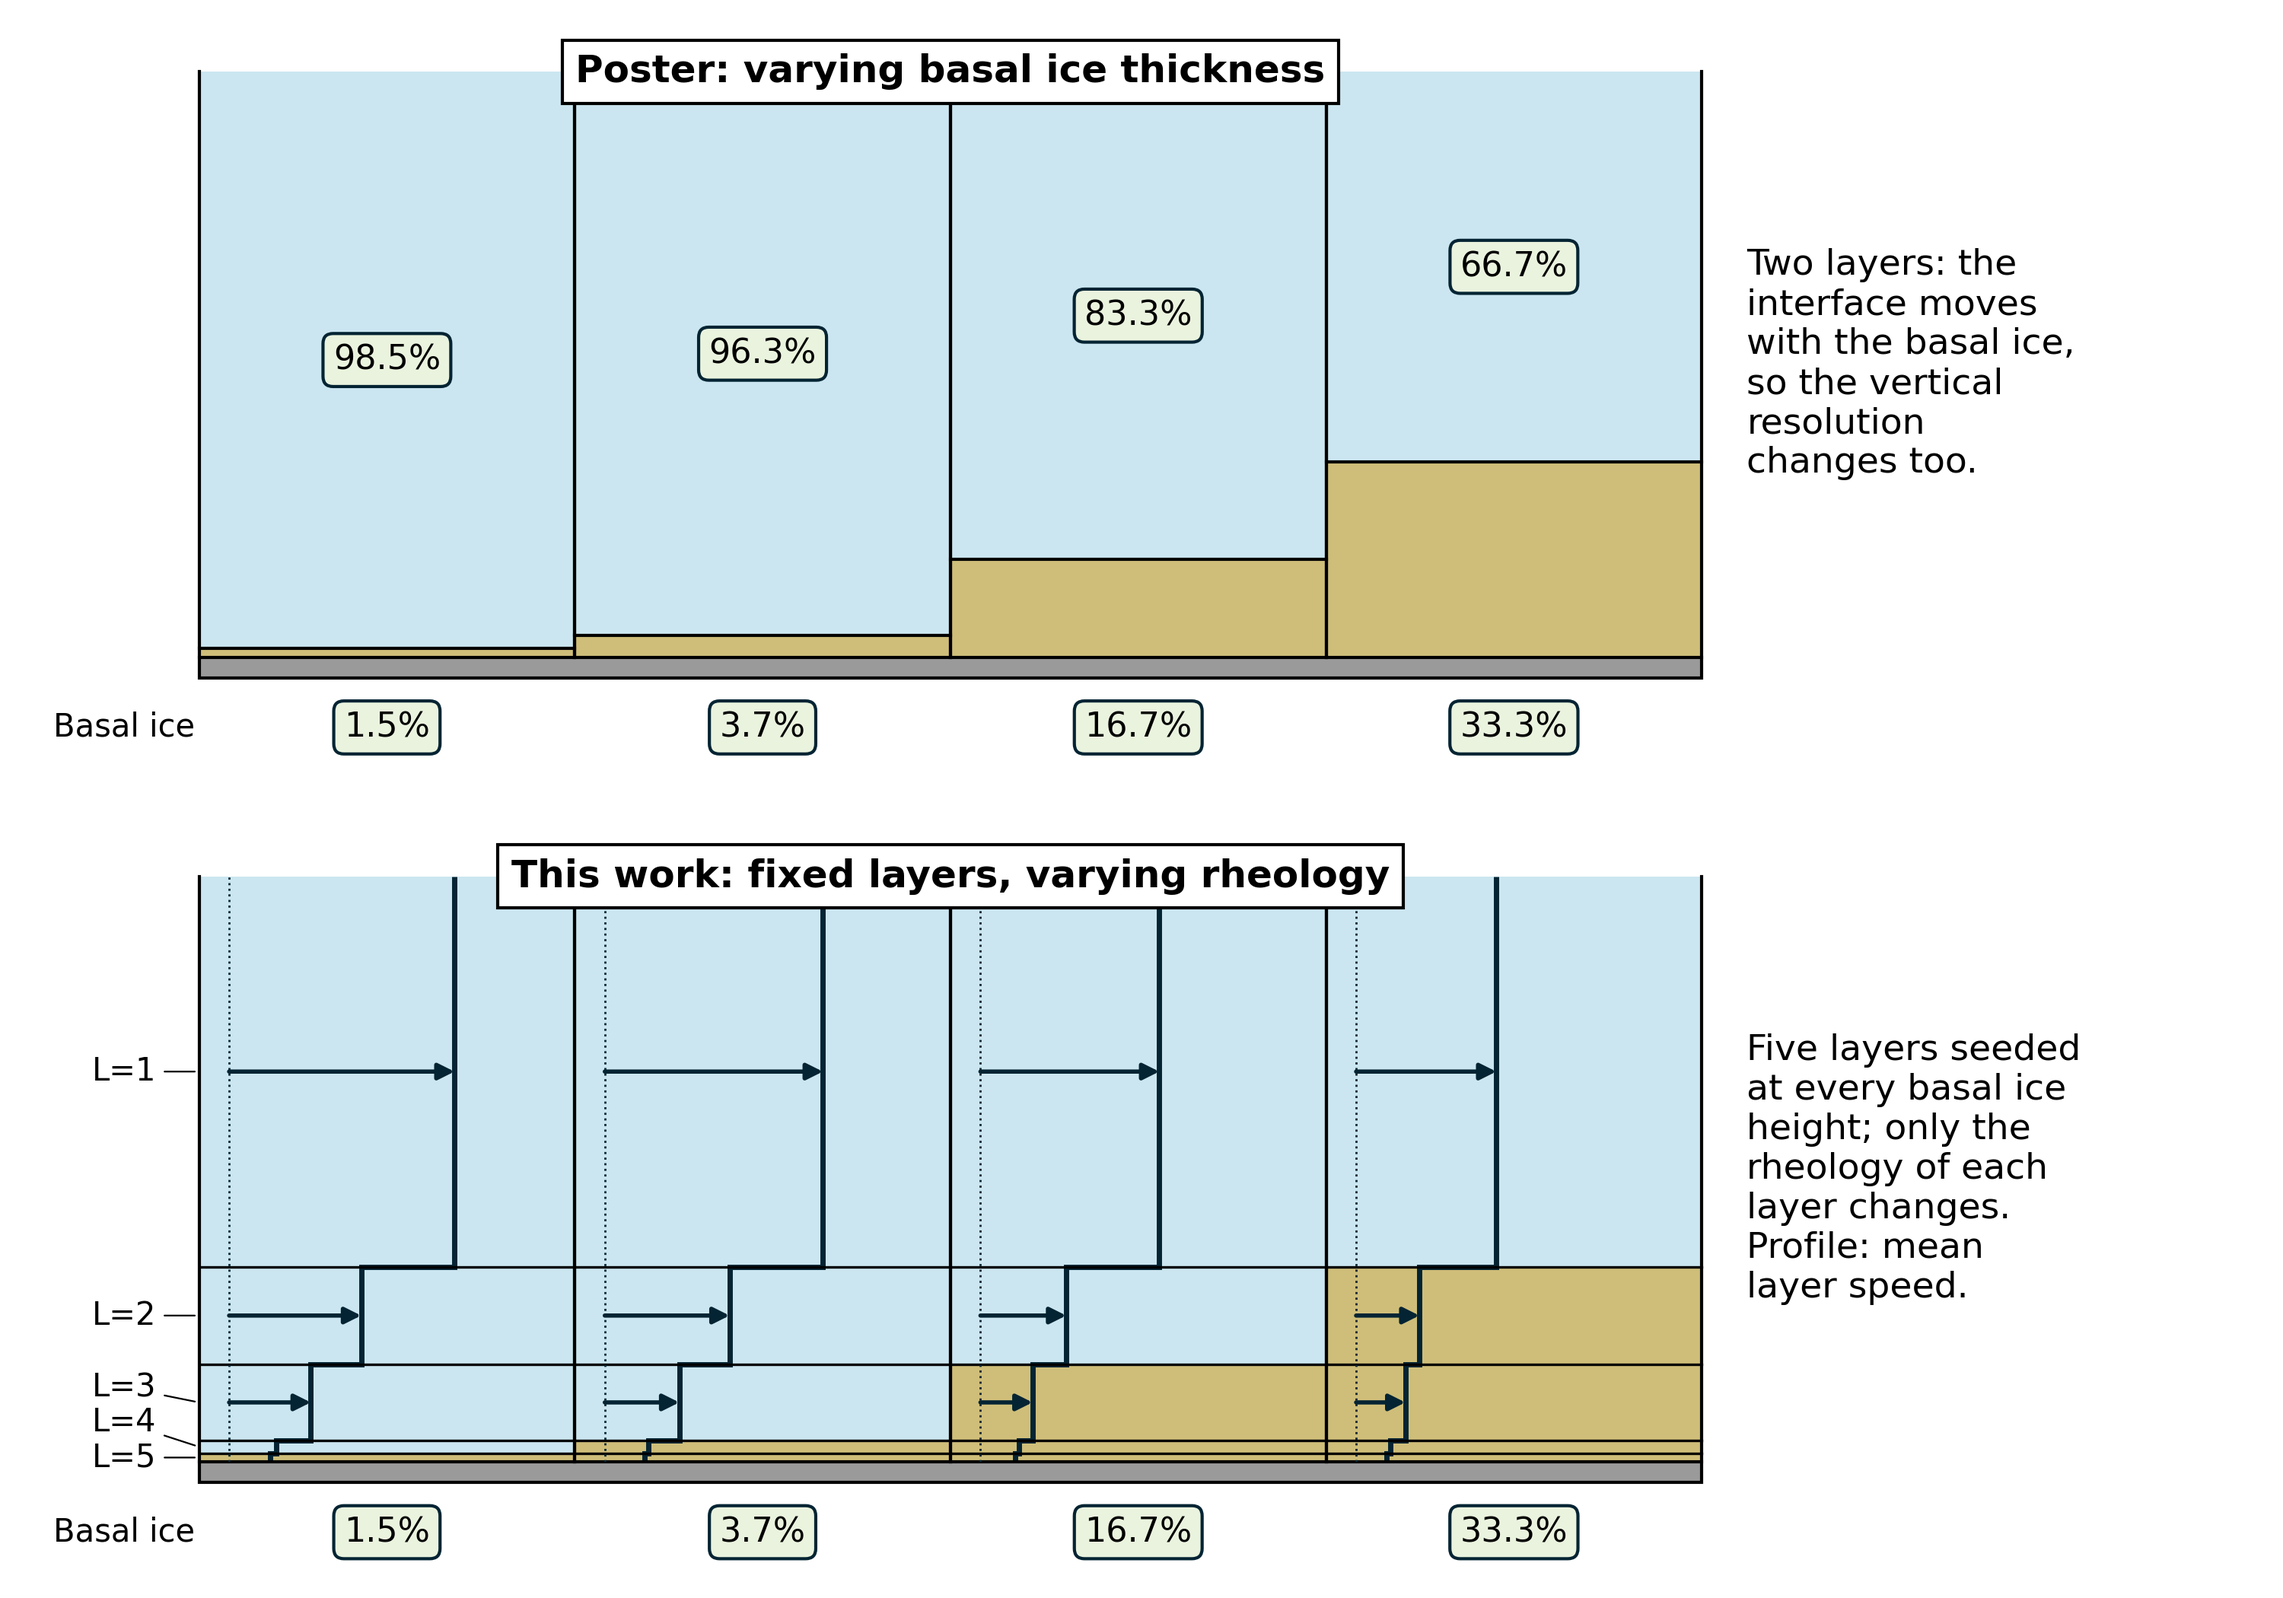
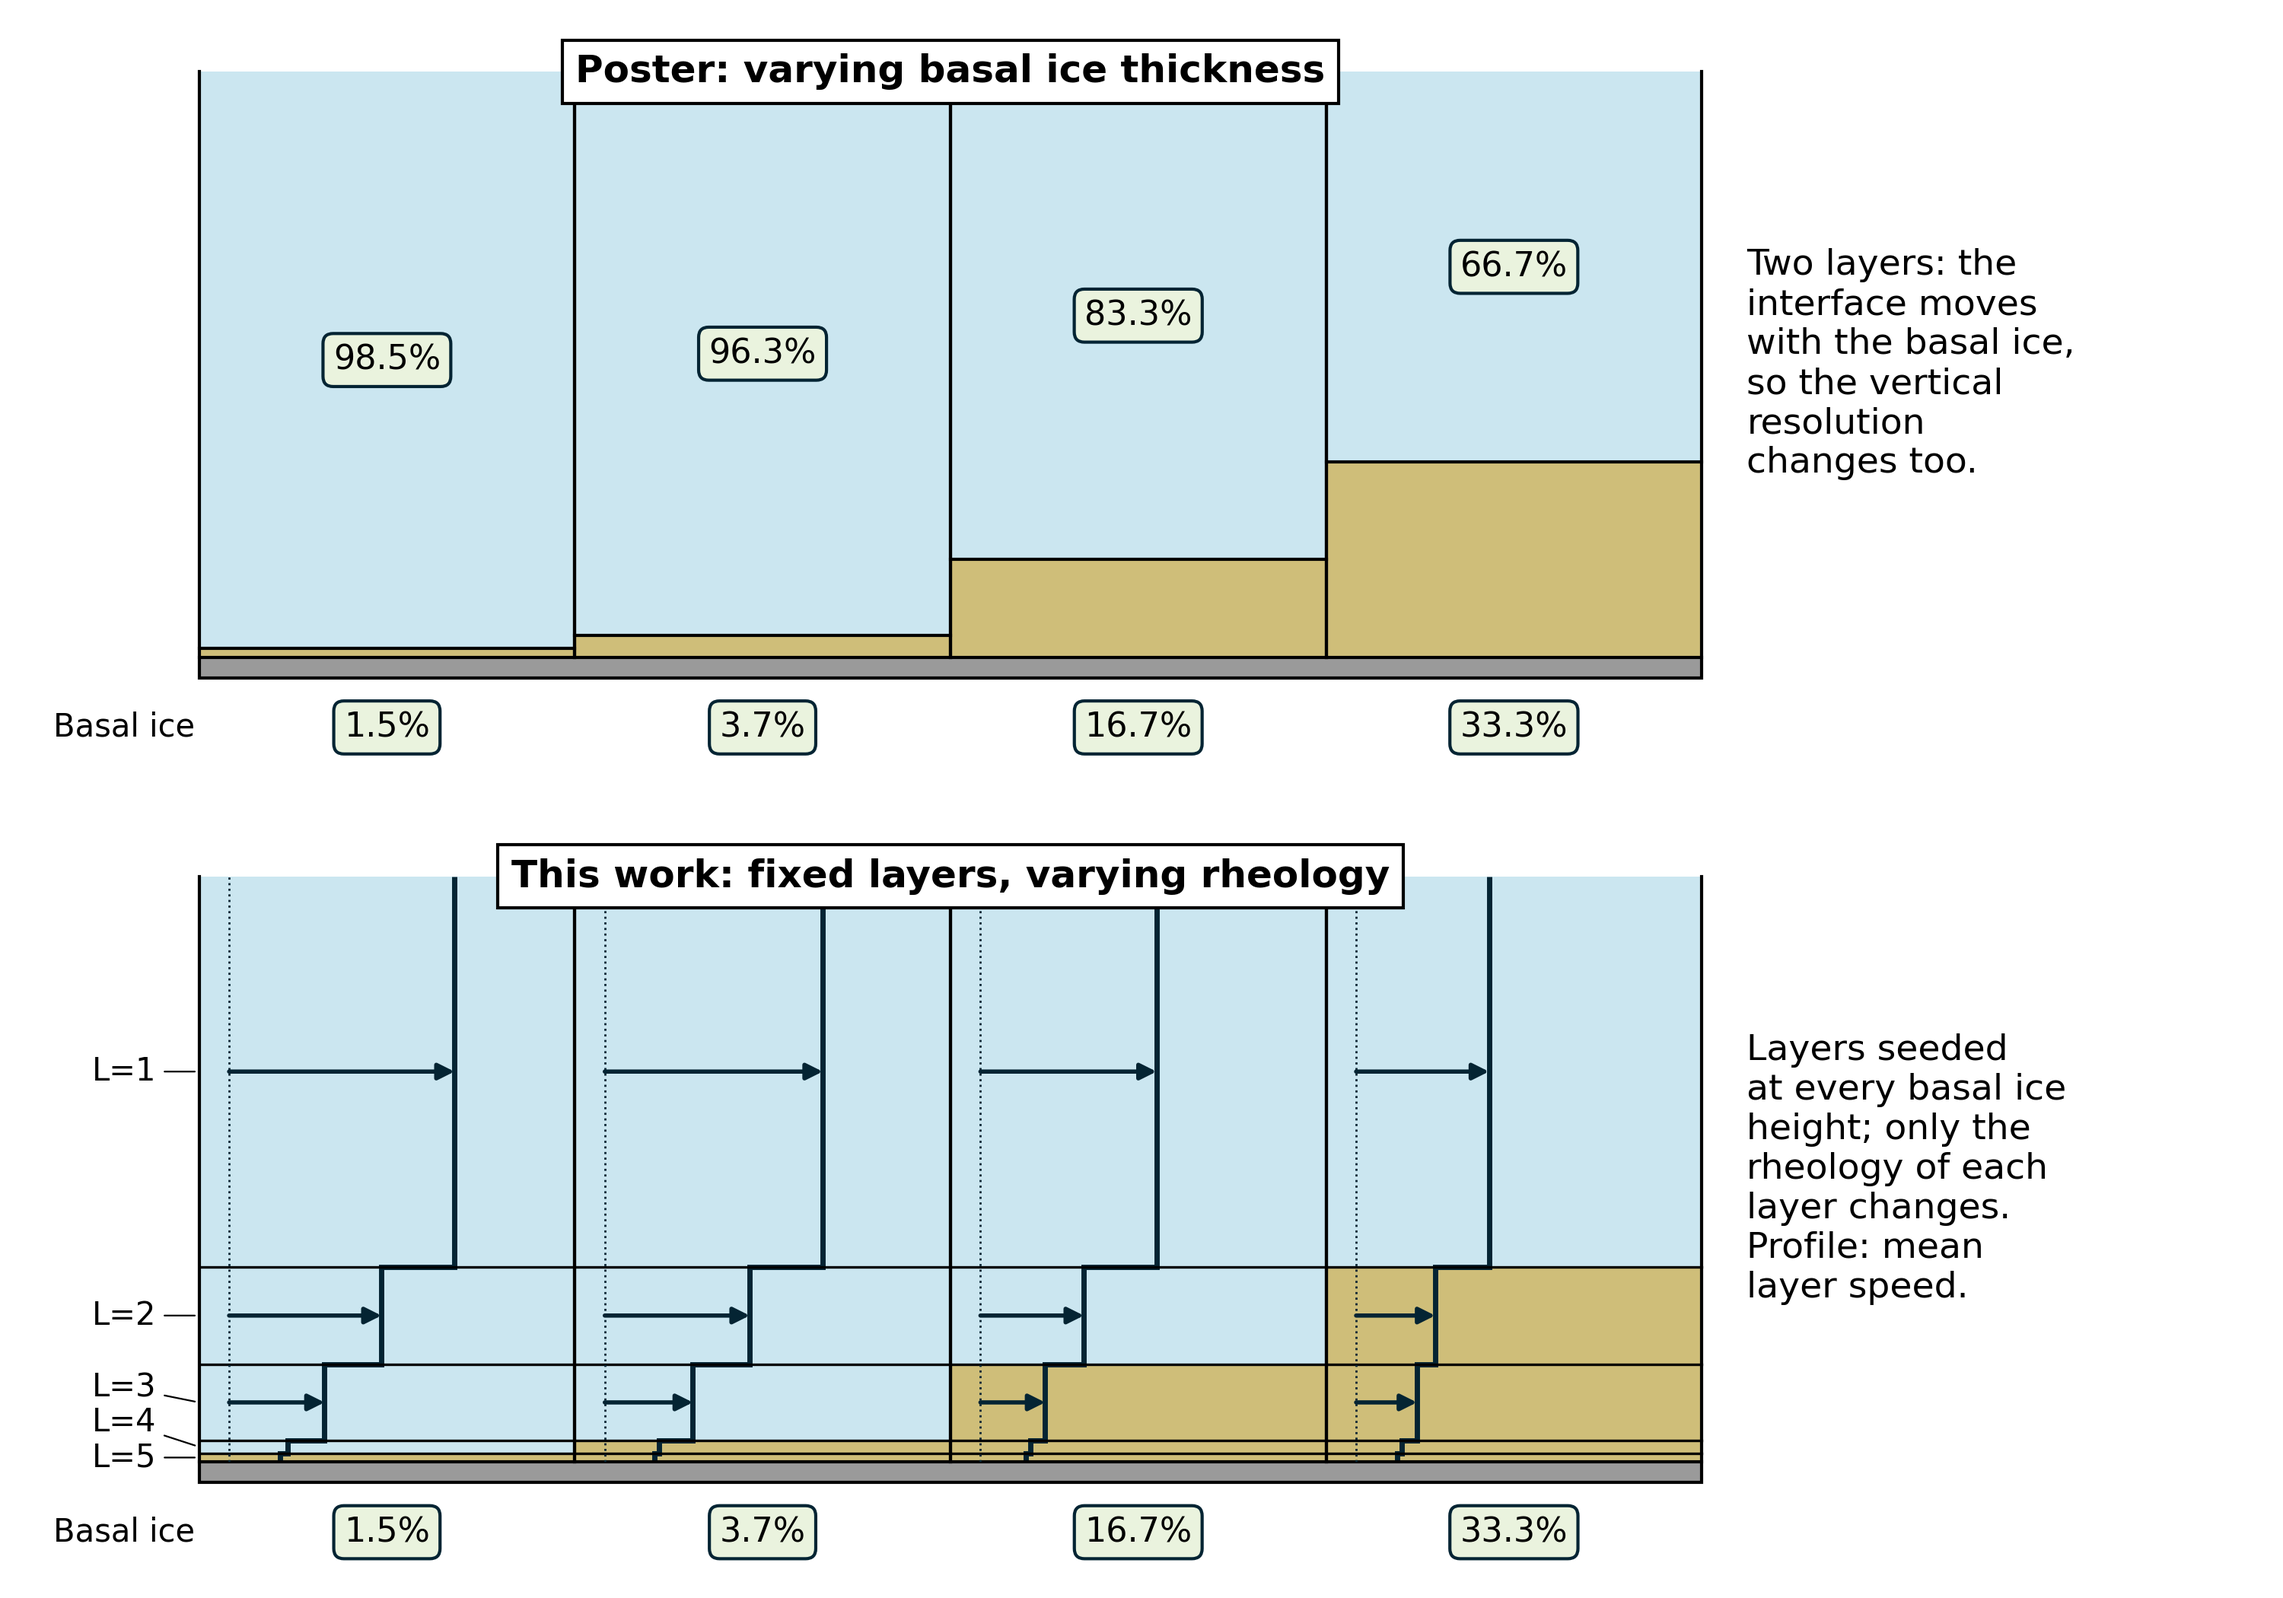
no-mistakes(review): Average sub-layer speeds per seeded layer, list reference runs

diff --git a/plot_schematic.py b/plot_schematic.py
@@ -2,10 +2,11 @@ r"""Schematic of the two experimental designs, in the poster's style.
 
 Top row: the poster's runs, a two-layer column whose one interface moves
 to make the basal ice thicker.  Bottom row: the interfaces seeded once at
-every one of those heights, five layers, with only the assignment of
-basal-ice rheology changing.  The arrows in each layer of the bottom row
-trace each layer's mean along-flow speed from ``experiments.py``: every
-layer moves as a block.
+every one of those heights, with only the assignment of basal-ice rheology
+changing.  The arrows in each seeded layer of the bottom row trace its
+mean along-flow speed in the ``fixed`` runs of ``experiments.py``, which
+split every seeded layer into ``FIXED_SUBDIVISIONS``: the thickness-weighted
+mean over its sub-layers.
 
     python plot_schematic.py [--wavelength 6000] [--nx 40]
 """
@@ -52,6 +53,18 @@ def spread(z, gap):
     return out
 
 
+def seeded_speeds(result, seeded):
+    """Thickness-weighted mean speed of each seeded layer (``seeded`` edges)
+    over the layers of ``result`` that subdivide it."""
+    fractions = result["fractions"]
+    middles = np.cumsum(fractions) - 0.5 * fractions
+    layer = np.searchsorted(seeded, middles) - 1
+    speeds = result["velocity"][:, :-1].mean(axis=1)
+    count = len(seeded) - 1
+    return (np.bincount(layer, fractions * speeds, count)
+            / np.bincount(layer, fractions, count))
+
+
 def bed(ax, x0, x1, depth=0.035):
     ax.add_patch(Rectangle((x0, -depth), x1 - x0, depth, facecolor=ps.BED,
                            edgecolor="black", lw=1.5))
@@ -88,15 +101,15 @@ def main():
     title_box(ax, 0.5 * count * width, 1.0,
               "Poster: varying basal ice thickness")
 
-    # Five fixed layers: only the rheology moves.
+    # Fixed seeded layers: only the rheology moves.
     ax = axes[1]
-    speeds = [load(directory, "fixed", f"k{k}")["velocity"][:, :-1].mean(axis=1)
+    speeds = [seeded_speeds(load(directory, "fixed", f"k{k}"), seeded)
               for k in range(1, count + 1)]
     vmax = max(s.max() for s in speeds)
     for i, k in enumerate(range(1, count + 1)):
         x0 = i * width
         column(ax, x0, width, seeded, basal_layers=k)
-        # Each layer moves as a block: a stepped profile of the layer speeds.
+        # A stepped profile of the seeded-layer mean speeds.
         u = x0 + 0.08 * width + 0.6 * width * speeds[i] / vmax
         ax.stairs(u, seeded, baseline=None, orientation="horizontal",
                   color=ps.LABEL_EDGE, lw=2.5)
@@ -118,7 +131,7 @@ def main():
                     xytext=(-0.2, z), fontsize=15, ha="center", va="center",
                     arrowprops=dict(arrowstyle="-", color="black", lw=0.8))
     ax.text(count * width + 0.12, 0.5,
-            "Five layers seeded\nat every basal ice\nheight; only the\n"
+            "Layers seeded\nat every basal ice\nheight; only the\n"
             "rheology of each\nlayer changes.\nProfile: mean\nlayer speed.",
             fontsize=17, va="center", ha="left")
     title_box(ax, 0.5 * count * width, 1.0,

diff --git a/experiments.py b/experiments.py
@@ -169,8 +169,8 @@ def main():
     parser.add_argument("--only", nargs="+",
                         choices=("fixed", "variable", "poster", "split", "refine",
                                  "reference"),
-                        help="run only these experiments; 'refine' is slow "
-                             "(10+ min per 20-layer run) and runs only when named")
+                        help="run only these experiments; 'refine' (the 5- and "
+                             "10-layer resolution check) runs only when named")
     parser.add_argument("--force", action="store_true",
                         help="re-run results already on disk")
     parser.add_argument("--list", action="store_true",
@@ -184,6 +184,9 @@ def main():
         for experiment, tag, fractions, laws, basal, interface in todo:
             layers = ", ".join(f"{f:.4f} {law.name}" for f, law in zip(fractions, laws))
             print(f"{experiment:9s} {tag:8s} {interface:6s} basal {basal:.4f} | {layers}")
+        if not args.only or "reference" in args.only:
+            for tag, basal in reference_runs():
+                print(f"{'reference':9s} {tag:8s} {'':6s} basal {basal:.4f} | first order")
         return
 
     out_dir.mkdir(parents=True, exist_ok=True)
